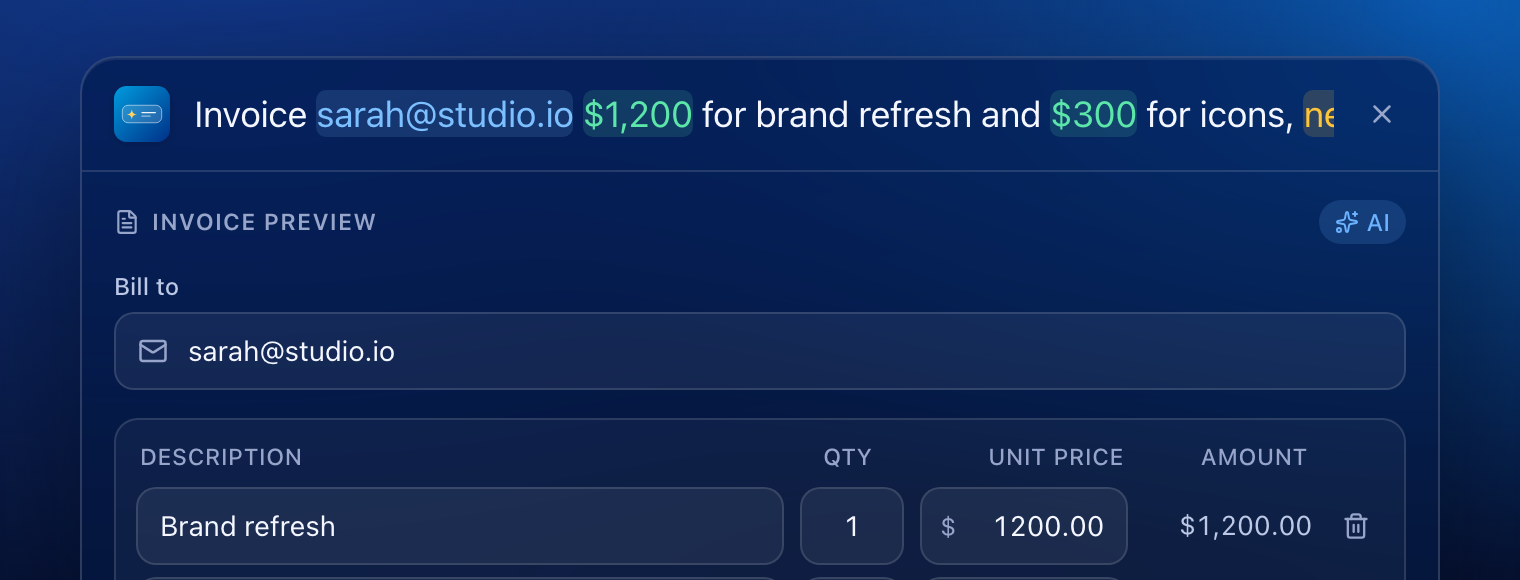
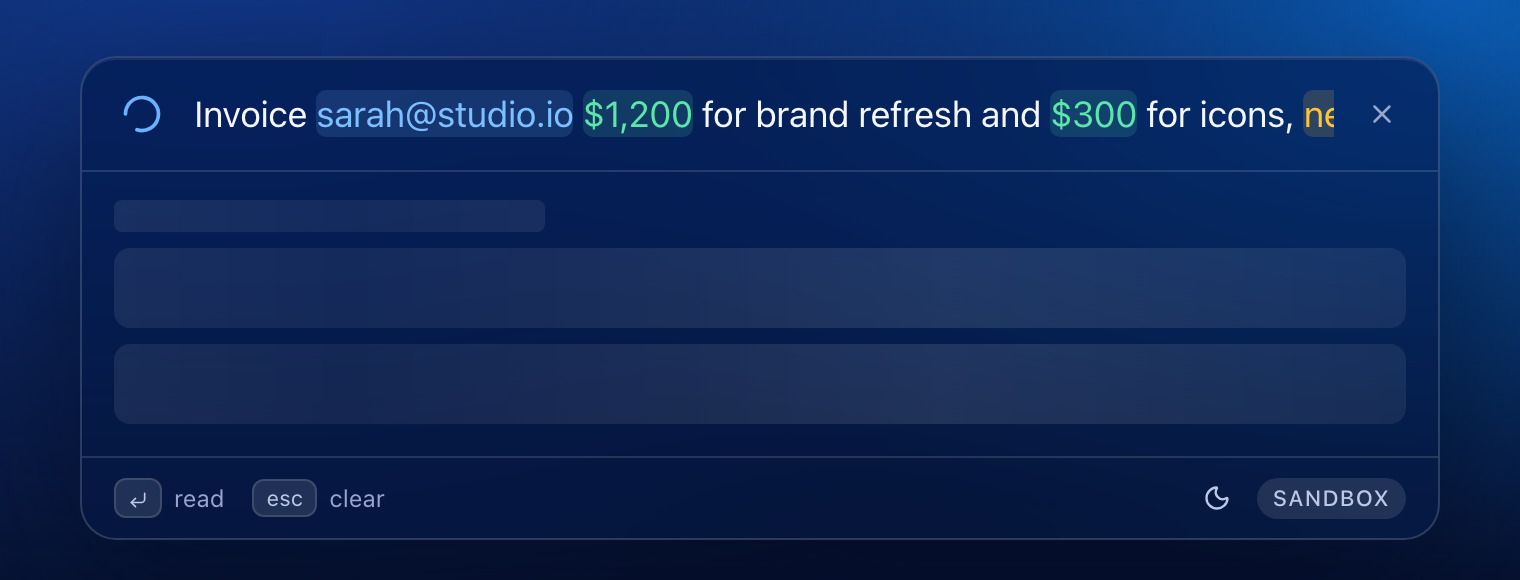
fix(frontend): showcase scenes no longer trigger a live parse
Seeded text is marked as already parsed, so screenshots are deterministic whether or not the backend or Ollama is running. Adds a short-sentence scene.

diff --git a/frontend/src/showcase.tsx b/frontend/src/showcase.tsx
@@ -18,6 +18,7 @@ const RESULT = (status: string) => ({ invoice_id: "INV2-K7QM-4XWB-9TCE-2RDL", in
 
 export const SCENES: Record<string, { initial?: Partial<State>; recents?: boolean }> = {
   empty: { recents: true },
+  anatomy: { initial: { text: "Bill sarah@studio.io $1,200 for brand refresh, net 30" } },
   reading: { initial: { text: TEXT, phase: "parsing" } },
   preview: { initial: { text: TEXT, phase: "preview", draft: DRAFT, source: "llm", warnings: [] } },
   sent: { initial: { text: TEXT, phase: "success", result: RESULT("SENT") } },

diff --git a/frontend/src/hooks/usePalette.ts b/frontend/src/hooks/usePalette.ts
@@ -76,7 +76,7 @@ export function usePalette(seed?: Partial<State>) {
   stateRef.current = state;
   const abortRef = useRef<AbortController | null>(null);
   const requestId = useRef(newId());
-  const lastParsed = useRef("");
+  const lastParsed = useRef(seed?.text?.trim() ?? ""); // seeded text (showcase scenes) is not re-parsed
 
   const parse = useCallback(async (text: string) => {
     const trimmed = text.trim();
